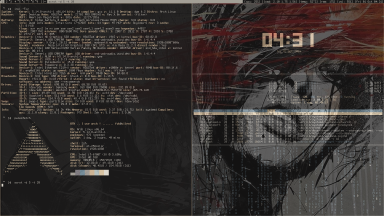
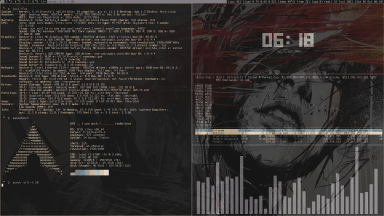
new pic

diff --git a/screenshots_dwm.html b/screenshots_dwm.html
@@ -32,7 +32,7 @@
             <a href="dwm/silent_dwm_8.png"><img src="dwm/silent_dwm_8-thumb.png"></a><br>
             <br>
             <br>
-            <small>inxi htop tty-clock paleofetch and cmatrix</small><br>
+            <small>inxi paleofetch tty-clock cointop and cava</small><br>
             <br>
             <a href="dwm/silent_dwm_1.png"><img src="dwm/silent_dwm_1-thumb.png"></a><br>
             <br>
